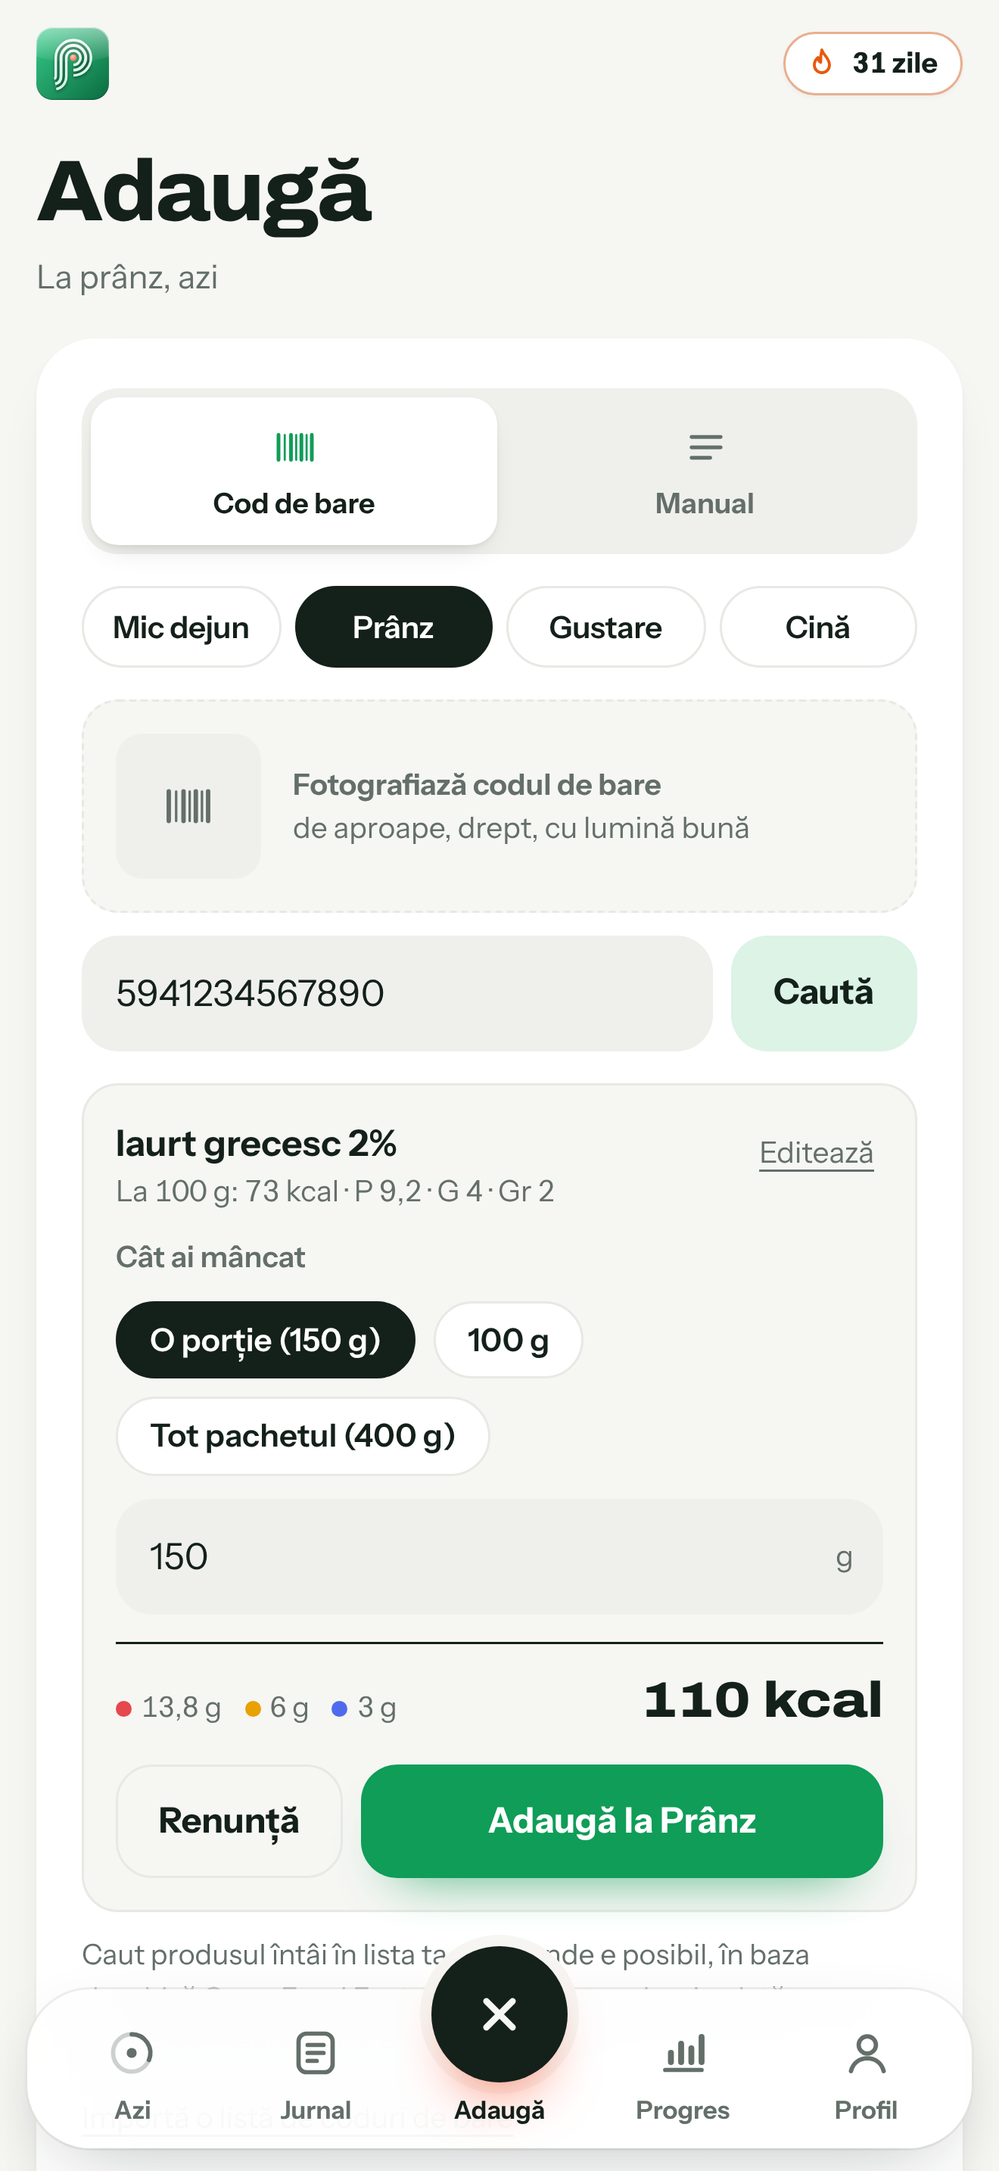
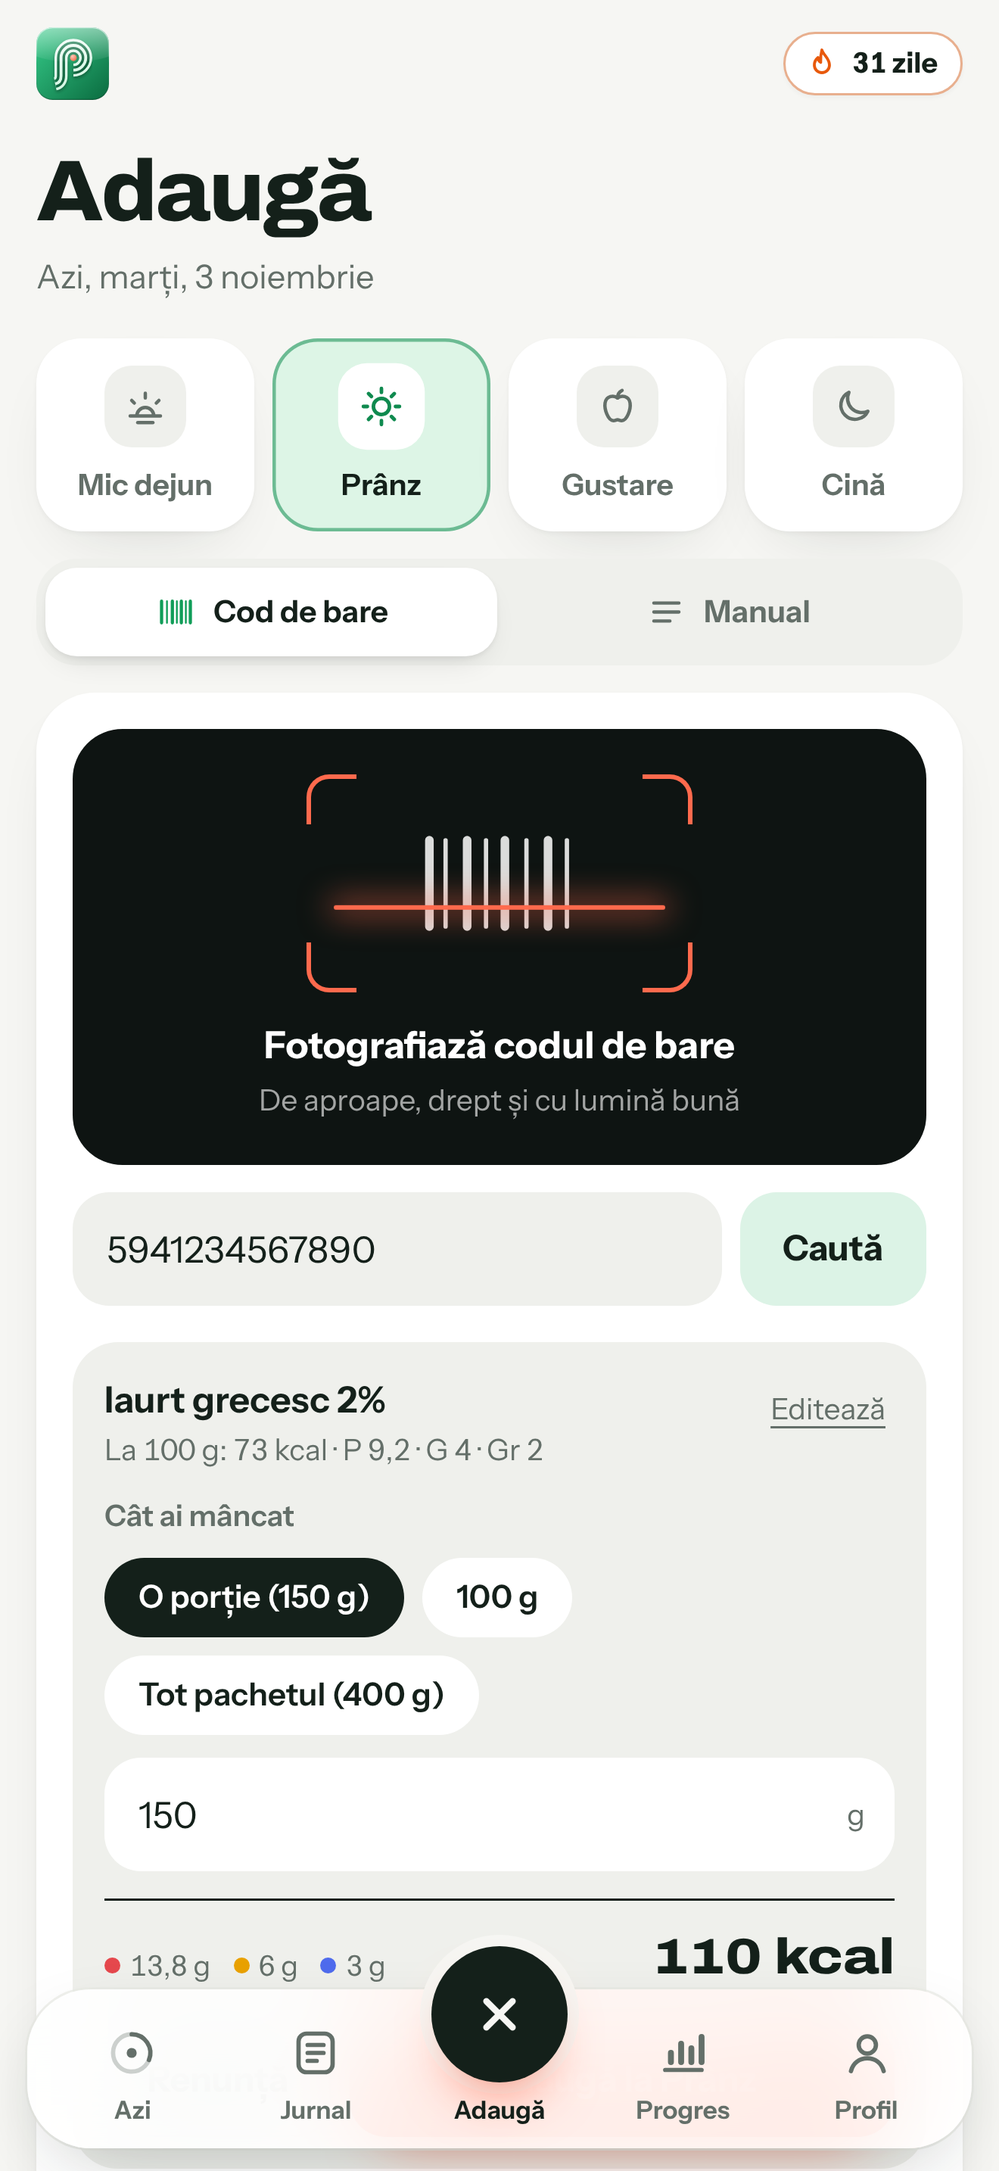
Ecranul Adaugă refăcut: masa întâi, cardul care arată cum intră mâncarea în zi
Masa se alege din patru plăci în culorile meselor. Modul manual e un
singur card: numele ca titlu, calorii, cantitate și macronutrienți ca
plăci mari, iar sub ele o bară care arată, cât scrii, ce rămâne din zi
după alimentul acesta. Butonul spune câte calorii adaugi și la ce masă.
Codul de bare are un vizor pe care îl atingi ca să faci poza. Mesele
repetate, rețetele și alimentele recente sunt rânduri de carduri care
se derulează lateral. Toate butoanele care adaugă mâncare au culoarea
acțiunii principale.

Claude-Session: https://claude.ai/code/session_01THEXYzYb5U7JoghRZLky4L

diff --git a/css/styles.css b/css/styles.css
@@ -1049,3 +1049,94 @@ h2{font-stretch:104%;font-weight:750}
 
 @media (min-width:900px){.dial{width:min(30vw,310px)}}
 @media (prefers-reduced-motion: reduce){.dial svg,.mring .mb-f,.d-center.swap{transition:none;animation:none}}
+
+/* ================= Adaugă: pick the meal, pick the way, one card to fill ================= */
+#logger{background:none;border:0;box-shadow:none;padding:0;border-radius:0;display:flex;flex-direction:column;gap:12px}
+#logger > .seg.modes{margin:0}
+.pane{background:var(--surface);border-radius:26px;box-shadow:var(--lift);padding:16px;gap:12px}
+:root[data-theme="dark"] .pane{border:1px solid var(--line)}
+@media (prefers-color-scheme: dark){:root:not([data-theme="light"]) .pane{border:1px solid var(--line)}}
+
+/* the meal: four tiles in the meals' own colours */
+.meals{display:grid;grid-template-columns:repeat(4,minmax(0,1fr));gap:8px;margin:0}
+.ml{display:flex;flex-direction:column;align-items:center;gap:7px;padding:12px 4px 11px;border:0;border-radius:20px;background:var(--surface);box-shadow:var(--lift);color:var(--muted);font-size:13px;cursor:pointer;min-width:0;transition:transform .14s,background-color .2s,color .2s,box-shadow .2s}
+.ml:active{transform:scale(.95)}
+.ml b{font-weight:650;white-space:nowrap;overflow:hidden;text-overflow:ellipsis;max-width:100%}
+.ml-ic{width:36px;height:36px;border-radius:12px;display:grid;place-items:center;background:var(--sunk);color:var(--muted);transition:background-color .2s,color .2s,transform .3s cubic-bezier(.3,1.5,.5,1)}
+.ml-breakfast{--mc:var(--m1);--mi:var(--m1i)} .ml-lunch{--mc:var(--m2);--mi:var(--m2i)} .ml-snack{--mc:var(--m3);--mi:var(--m3i)} .ml-dinner{--mc:var(--m4);--mi:var(--m4i)}
+.ml[aria-checked="true"]{background:var(--mc);color:var(--ink);box-shadow:inset 0 0 0 1.5px color-mix(in srgb,var(--mi) 55%,transparent)}
+.ml[aria-checked="true"] .ml-ic{background:var(--surface);color:var(--mi);transform:scale(1.06)}
+:root[data-theme="dark"] .ml{border:1px solid var(--line)}
+@media (prefers-color-scheme: dark){:root:not([data-theme="light"]) .ml{border:1px solid var(--line)}}
+
+/* the ways to add: a pill switch */
+.seg.modes{background:var(--sunk);border-radius:18px;padding:4px}
+.seg.modes button{flex-direction:row;gap:7px;padding:10px 4px;font-size:13.5px;border-radius:14px}
+.seg.modes svg{width:19px;height:19px}
+
+/* manual: the name as a title, the numbers as tiles, then what it does to the day */
+.mname input{background:transparent;border:0;border-bottom:1.5px solid var(--line);border-radius:0;padding:6px 2px 12px;font-size:21px;font-weight:650;letter-spacing:-.01em}
+.mname input:focus{background:transparent;border-color:var(--act)}
+.dict.has-mic.mname input{padding-right:46px}
+.mtiles{display:grid;grid-template-columns:repeat(6,minmax(0,1fr));gap:8px}
+.mtile{grid-column:span 2;display:flex;flex-direction:column;gap:4px;padding:10px 12px 8px;border-radius:18px;background:var(--sunk);cursor:text;transition:box-shadow .15s,background-color .15s}
+.mtile.big{grid-column:span 4}
+.mtile:nth-child(2){grid-column:span 2}
+.mtile:focus-within{background:var(--surface);box-shadow:inset 0 0 0 1.5px var(--act)}
+.mt-l{display:flex;align-items:center;gap:6px;font-size:12.5px;font-weight:600;color:var(--muted)}
+.mtile.m-p .mt-l::before,.mtile.m-c .mt-l::before,.mtile.m-f .mt-l::before{content:"";width:7px;height:7px;border-radius:50%;background:var(--c)}
+.mtile input[type="text"]{background:transparent;border:0;border-radius:0;padding:0 34px 0 0;font-family:var(--f-display);font-stretch:96%;font-weight:760;font-size:22px;letter-spacing:-.02em;font-variant-numeric:tabular-nums}
+.mtile.big input[type="text"]{font-size:30px}
+.mtile input[type="text"]:focus{background:transparent}
+.mtile .unit em{right:0;font-size:13px}
+.mfit{display:flex;flex-direction:column;gap:8px}
+.mfit:empty{display:none}
+.fit-bar{position:relative;display:flex;height:8px;border-radius:99px;background:var(--sunk);overflow:visible}
+.fit-bar i{display:block;height:100%}
+.fit-bar .fb-e{background:var(--kcal);border-radius:99px 0 0 99px;transition:width .4s cubic-bezier(.2,.8,.2,1)}
+.fit-bar .fb-n{background:var(--act);border-radius:0 99px 99px 0;transition:width .3s cubic-bezier(.2,.8,.2,1)}
+.fit-bar .fb-e:only-child{border-radius:99px}
+.fit-bar .fb-t{position:absolute;top:-4px;width:2px;height:16px;margin-left:-1px;border-radius:1px;background:var(--ink);opacity:.5}
+.mfit.is-over .fb-n{background:var(--over)}
+.mfit p{margin:0;font-size:13.5px;color:var(--muted)}
+.mfit p b{color:var(--ink);font-variant-numeric:tabular-nums}
+.btn.act{background:var(--act);color:var(--on-act);box-shadow:0 14px 26px -16px var(--act);width:100%;min-height:54px;font-size:16px;border-radius:18px}
+
+/* barcode: a viewfinder you tap to take the photo */
+.scan{position:relative;display:flex;flex-direction:column;align-items:center;gap:12px;padding:20px 16px 18px;border-radius:22px;background:#0E1412;color:#FFFFFF;cursor:pointer;overflow:hidden;text-align:center;transition:transform .14s}
+.scan:active{transform:scale(.985)}
+.scan input{position:absolute;width:1px;height:1px;opacity:0;pointer-events:none}
+.scan-vf{position:relative;width:170px;height:96px;display:grid;place-items:center;color:rgb(255 255 255 / .85)}
+.scan-vf i{position:absolute;width:22px;height:22px;border:2.5px solid var(--act)}
+.scan-vf i:nth-child(1){left:0;top:0;border-right:0;border-bottom:0;border-radius:10px 0 0 0}
+.scan-vf i:nth-child(2){right:0;top:0;border-left:0;border-bottom:0;border-radius:0 10px 0 0}
+.scan-vf i:nth-child(3){left:0;bottom:0;border-right:0;border-top:0;border-radius:0 0 0 10px}
+.scan-vf i:nth-child(4){right:0;bottom:0;border-left:0;border-top:0;border-radius:0 0 10px 0}
+.scan-line{position:absolute;left:12px;right:12px;top:50%;height:2px;border-radius:2px;background:var(--act);box-shadow:0 0 14px 2px color-mix(in srgb,var(--act) 70%,transparent);animation:scanMove 2.4s ease-in-out infinite alternate}
+@keyframes scanMove{from{transform:translateY(-34px)}to{transform:translateY(34px)}}
+.scan-t b{display:block;font-size:16.5px;font-weight:700}
+.scan-t span{font-size:13px;color:rgb(255 255 255 / .62)}
+.bc-row input{background:var(--sunk)}
+.bc-card{background:var(--sunk);border:0;border-radius:20px}
+
+/* the quick ways back to what you eat often: rows of cards you scroll sideways */
+.recent{margin-top:4px;padding-top:0;border-top:0;gap:14px}
+.recent .lbl{font-family:var(--f-display);font-stretch:104%;font-weight:750;font-size:15px;color:var(--ink);margin:0 2px}
+.recent .chips{gap:8px;padding:6px 2px 10px;margin:0 -2px;scroll-snap-type:x proximity;scrollbar-width:none}
+.recent .chips::-webkit-scrollbar{display:none}
+.recent .chip{scroll-snap-align:start;border:0;background:var(--surface);box-shadow:var(--lift);border-radius:16px;padding:11px 14px;font-weight:650}
+.recent .chip i{font-family:var(--f-display);font-stretch:92%;font-weight:700;color:var(--muted)}
+.recent .chip.accent{background:var(--kcal-soft);box-shadow:none}
+:root[data-theme="dark"] .recent .chip{border:1px solid var(--line)}
+@media (prefers-color-scheme: dark){:root:not([data-theme="light"]) .recent .chip{border:1px solid var(--line)}}
+
+/* text and photo, where Claude's estimates are on */
+.pane[data-pane="text"] textarea{min-height:120px;font-size:17px}
+.photo-pick{border:0;background:var(--sunk);border-radius:20px}
+
+@media (prefers-reduced-motion: reduce){.scan-line{animation:none}.ml-ic{transition:none}}
+.bc-card input[type="text"]{background:var(--surface)}
+.bc-card .chip{background:var(--surface);border-color:transparent}
+.bc-card .chip[aria-pressed="true"]{background:var(--ink);color:var(--surface)}
+/* every "add this food" button carries the main-action colour */
+.btn.primary:is([data-action="bc-add"],[data-action="commit"],[data-action="rl-add"]){background:var(--act);color:var(--on-act);box-shadow:0 14px 26px -16px var(--act)}

diff --git a/index.html b/index.html
@@ -89,13 +89,13 @@
     <section class="screen" id="scr-add" data-screen="add" hidden aria-labelledby="hAdd">
       <div class="scr-head"><div><h1 id="hAdd">Adaugă</h1><p id="subAdd"></p></div></div>
       <section class="panel" id="logger" aria-labelledby="hAdd">
+        <div class="meals" id="meals" role="radiogroup" aria-label="Masa"></div>
         <div class="seg modes" role="tablist" aria-label="Mod de adăugare">
           <button role="tab" data-action="tab" data-tab="text" aria-selected="true"><svg viewBox="0 0 24 24" width="22" height="22" fill="none" stroke="currentColor" stroke-width="1.8" stroke-linecap="round" stroke-linejoin="round" aria-hidden="true"><path d="M5 19h4L19.5 8.5a2.1 2.1 0 0 0-3-3L6 16z"/><path d="M14.5 7.5l2 2"/></svg><span>Scrie</span></button>
           <button role="tab" data-action="tab" data-tab="photo" aria-selected="false"><svg viewBox="0 0 24 24" width="22" height="22" fill="none" stroke="currentColor" stroke-width="1.8" stroke-linecap="round" stroke-linejoin="round" aria-hidden="true"><path d="M4 8h3l2-3h6l2 3h3v11H4z"/><circle cx="12" cy="13" r="3.5"/></svg><span>Poză</span></button>
           <button role="tab" data-action="tab" data-tab="barcode" aria-selected="false"><svg viewBox="0 0 24 24" width="22" height="22" fill="none" stroke="currentColor" stroke-width="1.8" stroke-linecap="round" stroke-linejoin="round" aria-hidden="true"><path d="M4 6v12M10 6v12M15 6v12M20 6v12"/><path d="M7 6v12M12.5 6v12M17.5 6v12" stroke-width="1"/></svg><span>Cod de bare</span></button>
           <button role="tab" data-action="tab" data-tab="manual" aria-selected="false"><svg viewBox="0 0 24 24" width="22" height="22" fill="none" stroke="currentColor" stroke-width="1.8" stroke-linecap="round" stroke-linejoin="round" aria-hidden="true"><path d="M5 7h14M5 12h14M5 17h9"/></svg><span>Manual</span></button>
         </div>
-        <div class="meals" id="meals" role="radiogroup" aria-label="Masa"></div>
 
         <div class="pane" data-pane="text">
           <label class="sr" for="foodText">Descrie ce ai mâncat</label>
@@ -119,10 +119,10 @@
         </div>
 
         <div class="pane" data-pane="barcode" hidden>
-          <label class="photo-pick" for="bcInput">
+          <label class="scan" for="bcInput">
             <input type="file" id="bcInput" accept="image/*">
-            <span class="ph"><svg viewBox="0 0 24 24" width="26" height="26" fill="none" stroke="currentColor" stroke-linecap="round" aria-hidden="true"><path d="M4 6v12M10 6v12M15 6v12M20 6v12" stroke-width="1.8"/><path d="M7 6v12M12.5 6v12M17.5 6v12" stroke-width="1"/></svg></span>
-            <span><b>Fotografiază codul de bare</b><span>de aproape, drept, cu lumină bună</span></span>
+            <span class="scan-vf" aria-hidden="true"><i></i><i></i><i></i><i></i><svg viewBox="0 0 64 40" width="76" height="48" fill="none" stroke="currentColor" stroke-linecap="round"><path d="M6 4v32M20 4v32M34 4v32M50 4v32" stroke-width="3.2"/><path d="M12 4v32M27 4v32M42 4v32M57 4v32" stroke-width="1.6"/></svg><span class="scan-line"></span></span>
+            <span class="scan-t"><b>Fotografiază codul de bare</b><span>De aproape, drept și cu lumină bună</span></span>
           </label>
           <div class="bc-row"><label class="sr" for="bcCode">Cifrele codului de bare</label><input type="text" id="bcCode" inputmode="numeric" placeholder="sau scrie cifrele de sub cod"><button class="btn soft" data-action="bc-lookup">Caută</button></div>
           <div id="bcResult"></div>
@@ -131,15 +131,17 @@
         </div>
 
         <div class="pane" data-pane="manual" hidden>
-          <div class="mgrid">
-            <div class="full"><label class="lbl" for="mName">Aliment</label><div class="dict"><input type="text" id="mName" placeholder="ex: Iaurt grecesc 2%, 150 g"><button type="button" class="mic" data-action="mic" data-target="mName" aria-label="Dictează" aria-pressed="false" hidden><svg viewBox="0 0 24 24" width="20" height="20" fill="none" stroke="currentColor" stroke-width="1.8" stroke-linecap="round" stroke-linejoin="round" aria-hidden="true"><rect x="9" y="3" width="6" height="11" rx="3"/><path d="M5.5 11a6.5 6.5 0 0 0 13 0M12 17.5V21M8.5 21h7"/></svg></button></div></div>
-            <div class="half"><label class="lbl" for="mKcal">Calorii</label><div class="unit"><input type="text" id="mKcal" inputmode="decimal" placeholder="0"><em>kcal</em></div></div>
-            <div class="half"><label class="lbl" for="mGrams">Cantitate</label><div class="unit"><input type="text" id="mGrams" inputmode="decimal" placeholder="opțional"><em>g</em></div></div>
-            <div><label class="lbl" for="mP">Prot.</label><input type="text" id="mP" inputmode="decimal" placeholder="g"></div>
-            <div><label class="lbl" for="mC">Glucide</label><input type="text" id="mC" inputmode="decimal" placeholder="g"></div>
-            <div><label class="lbl" for="mF">Grăsimi</label><input type="text" id="mF" inputmode="decimal" placeholder="g"></div>
-            <div style="display:flex;align-items:flex-end"><button class="btn primary" style="width:100%" data-action="add-manual">Adaugă</button></div>
+          <label class="sr" for="mName">Aliment</label>
+          <div class="dict mname"><input type="text" id="mName" placeholder="Numele alimentului" autocomplete="off" enterkeyhint="next"><button type="button" class="mic" data-action="mic" data-target="mName" aria-label="Dictează" aria-pressed="false" hidden><svg viewBox="0 0 24 24" width="20" height="20" fill="none" stroke="currentColor" stroke-width="1.8" stroke-linecap="round" stroke-linejoin="round" aria-hidden="true"><rect x="9" y="3" width="6" height="11" rx="3"/><path d="M5.5 11a6.5 6.5 0 0 0 13 0M12 17.5V21M8.5 21h7"/></svg></button></div>
+          <div class="mtiles">
+            <label class="mtile big"><span class="mt-l">Calorii</span><span class="unit"><input type="text" id="mKcal" inputmode="decimal" placeholder="0"><em>kcal</em></span></label>
+            <label class="mtile"><span class="mt-l">Cantitate</span><span class="unit"><input type="text" id="mGrams" inputmode="decimal" placeholder="—"><em>g</em></span></label>
+            <label class="mtile m-p"><span class="mt-l">Proteine</span><span class="unit"><input type="text" id="mP" inputmode="decimal" placeholder="0"><em>g</em></span></label>
+            <label class="mtile m-c"><span class="mt-l">Glucide</span><span class="unit"><input type="text" id="mC" inputmode="decimal" placeholder="0"><em>g</em></span></label>
+            <label class="mtile m-f"><span class="mt-l">Grăsimi</span><span class="unit"><input type="text" id="mF" inputmode="decimal" placeholder="0"><em>g</em></span></label>
           </div>
+          <div class="mfit" id="mFit" aria-live="polite"></div>
+          <button class="btn act" data-action="add-manual" id="mAdd">Adaugă</button>
           <p class="hint">Copiază valorile de pe etichetă. Dacă lași caloriile goale, le calculez din macronutrienți.</p>
         </div>
 

diff --git a/js/app.js b/js/app.js
@@ -1245,6 +1245,7 @@ function addManual(){
   const k = S.view;
   mutateDay(k, day => day.entries.push(e));
   ['#mName','#mGrams','#mKcal','#mP','#mC','#mF'].forEach(s => $(s).value = '');
+  renderManualFit();
   toast('Adăugat la ' + mealName(e.meal) + ' · ' + fmt(e.kcal) + ' kcal', 'Anulează', () => mutateDay(k, day => { day.entries = day.entries.filter(x => x.id !== e.id); }));
 }
 function recentFoods(){
@@ -2674,7 +2675,7 @@ function toast(msg, label, fn){
 
 /* ---------- render ---------- */
 function renderAll(){ renderSync(); renderHeader(); renderHero(); renderMeals(); renderTabs(); renderRecent(); renderPreview(); renderIdeas(); renderDiary(); renderWater(); renderFast(); renderWeight(); renderHistory(); }
-function renderDayParts(){ renderHeader(); renderHero(); renderRecent(); renderDiary(); renderWater(); renderFast(); renderWeight(); renderHistory(); renderPreview(); }
+function renderDayParts(){ renderHeader(); renderHero(); renderRecent(); renderManualFit(); renderDiary(); renderWater(); renderFast(); renderWeight(); renderHistory(); renderPreview(); }
 function renderSync(){
   const el = $('#sync'); let st = 'idle', txt = 'Se încarcă…';
   if (S.mode === 'cloud'){
@@ -2691,7 +2692,7 @@ function renderHeader(){
   $('#subAzi').textContent = cap(dateLine(S.view));
   $('#toToday').hidden = S.view >= addDays(t, -1);
   $('#subJurnal').textContent = (isToday ? 'Azi, ' : dayWord(S.view) + ', ') + dateLine(S.view);
-  $('#subAdd').textContent = 'La ' + mealName(S.meal).toLowerCase() + (isToday ? ', azi' : ', ' + dayWord(S.view).toLowerCase());
+  $('#subAdd').textContent = addSub();
   const week = weekHtml();
   $('#weekAzi').innerHTML = week; $('#weekJurnal').innerHTML = week;
   renderAppbar();
@@ -2902,9 +2903,28 @@ function macroRing(key, label, eaten, target){
     '<span class="mr-dial" aria-hidden="true"><svg viewBox="0 0 48 48"><circle class="mr-t" cx="24" cy="24" r="20"/><circle class="mb-f" cx="24" cy="24" r="20" style="--f:' + f.toFixed(3) + '"/></svg><b>' + fmt(eaten) + '</b></span>' +
     '<span class="mr-txt" aria-hidden="true"><b>' + label + '</b><small>din ' + fmt(target) + ' g</small></span></div>';
 }
+const addSub = () => (S.view === todayKey() ? 'Azi, ' : dayWord(S.view) + ', ') + dateLine(S.view);
+// The manual card says, while you type, what this food does to the day, and the button names the meal it goes to
+function renderManualFit(){
+  const el = $('#mFit'), btn = $('#mAdd'); if (!el || !btn) return;
+  const v = id => { const n = num(($('#' + id) || {}).value); return n > 0 ? n : 0; };
+  const kc = v('mKcal') || (v('mP') * 4 + v('mC') * 4 + v('mF') * 9);
+  const meal = mealName(S.meal).toLowerCase();
+  btn.textContent = kc > 0 ? 'Adaugă ' + fmt(kc) + ' kcal la ' + meal : 'Adaugă la ' + meal;
+  if (!S.profile){ el.innerHTML = ''; return; }
+  const T = targetsFor(S.view), eaten = dayTotals(S.days[S.view]).kcal, after = eaten + kc, cap = Math.max(T.kcal, after) || 1;
+  const pe = Math.min(100, eaten / cap * 100), pn = Math.min(100 - pe, kc / cap * 100), mark = Math.min(100, T.kcal / cap * 100);
+  const txt = !kc ? 'Ai mâncat <b>' + fmt(eaten) + '</b> din <b>' + fmt(T.kcal) + '</b> kcal ' + (S.view === todayKey() ? 'azi' : 'în ziua aleasă') + '.'
+    : after <= T.kcal ? 'După asta îți mai rămân <b>' + fmt(T.kcal - after) + '</b> din <b>' + fmt(T.kcal) + '</b> kcal.'
+    : 'Cu asta ajungi la <b>' + fmt(after) + '</b> kcal, cu <b>' + fmt(after - T.kcal) + '</b> peste țintă.';
+  el.classList.toggle('is-over', after > T.kcal);
+  el.innerHTML = '<span class="fit-bar" aria-hidden="true"><i class="fb-e" style="width:' + pe.toFixed(1) + '%"></i><i class="fb-n" style="width:' + pn.toFixed(1) + '%"></i><i class="fb-t" style="left:' + mark.toFixed(1) + '%"></i></span><p>' + txt + '</p>';
+}
 function renderMeals(){
-  const sa = $('#subAdd'); if (sa) sa.textContent = 'La ' + mealName(S.meal).toLowerCase() + (S.view === todayKey() ? ', azi' : ', ' + dayWord(S.view).toLowerCase());
-  $('#meals').innerHTML = MEALS.map(m => '<button class="chip" role="radio" data-action="meal" data-meal="' + m.id + '" aria-checked="' + (m.id === S.meal) + '">' + m.t + '</button>').join('');
+  const sa = $('#subAdd'); if (sa) sa.textContent = addSub();
+  // the four meals as tiles in their own colours, the chosen one filled
+  $('#meals').innerHTML = MEALS.map(m => '<button class="ml ml-' + m.id + '" role="radio" data-action="meal" data-meal="' + m.id + '" aria-checked="' + (m.id === S.meal) + '"><span class="ml-ic">' + MEAL_ICON[m.id] + '</span><b>' + m.t + '</b></button>').join('');
+  renderManualFit();
 }
 function renderTabs(){
   $$('#logger [data-tab]').forEach(b => {
@@ -3862,6 +3882,7 @@ function bindStatic(){
     const t = ev.target;
     if (t.closest('#sBody') && t.dataset.field) setupInput(t.dataset.field, t.value);
     if (/^t[KPCFW]$/.test(t.id)) updateTargetSum();
+    if (/^m(Kcal|P|C|F)$/.test(t.id)) renderManualFit();
     if (S.rdraft && t.id === 'rName') S.rdraft.name = t.value;
     if (S.rdraft && t.id === 'rServ'){ const v = Math.round(num(t.value)); if (v >= 1 && v <= 50){ S.rdraft.servings = v; renderRecipeItems(); } }
     if (S.rdraft && t.id === 'rWeight'){ const v = num(t.value); S.rdraft.totalGrams = v > 0 ? Math.round(v) : null; }
